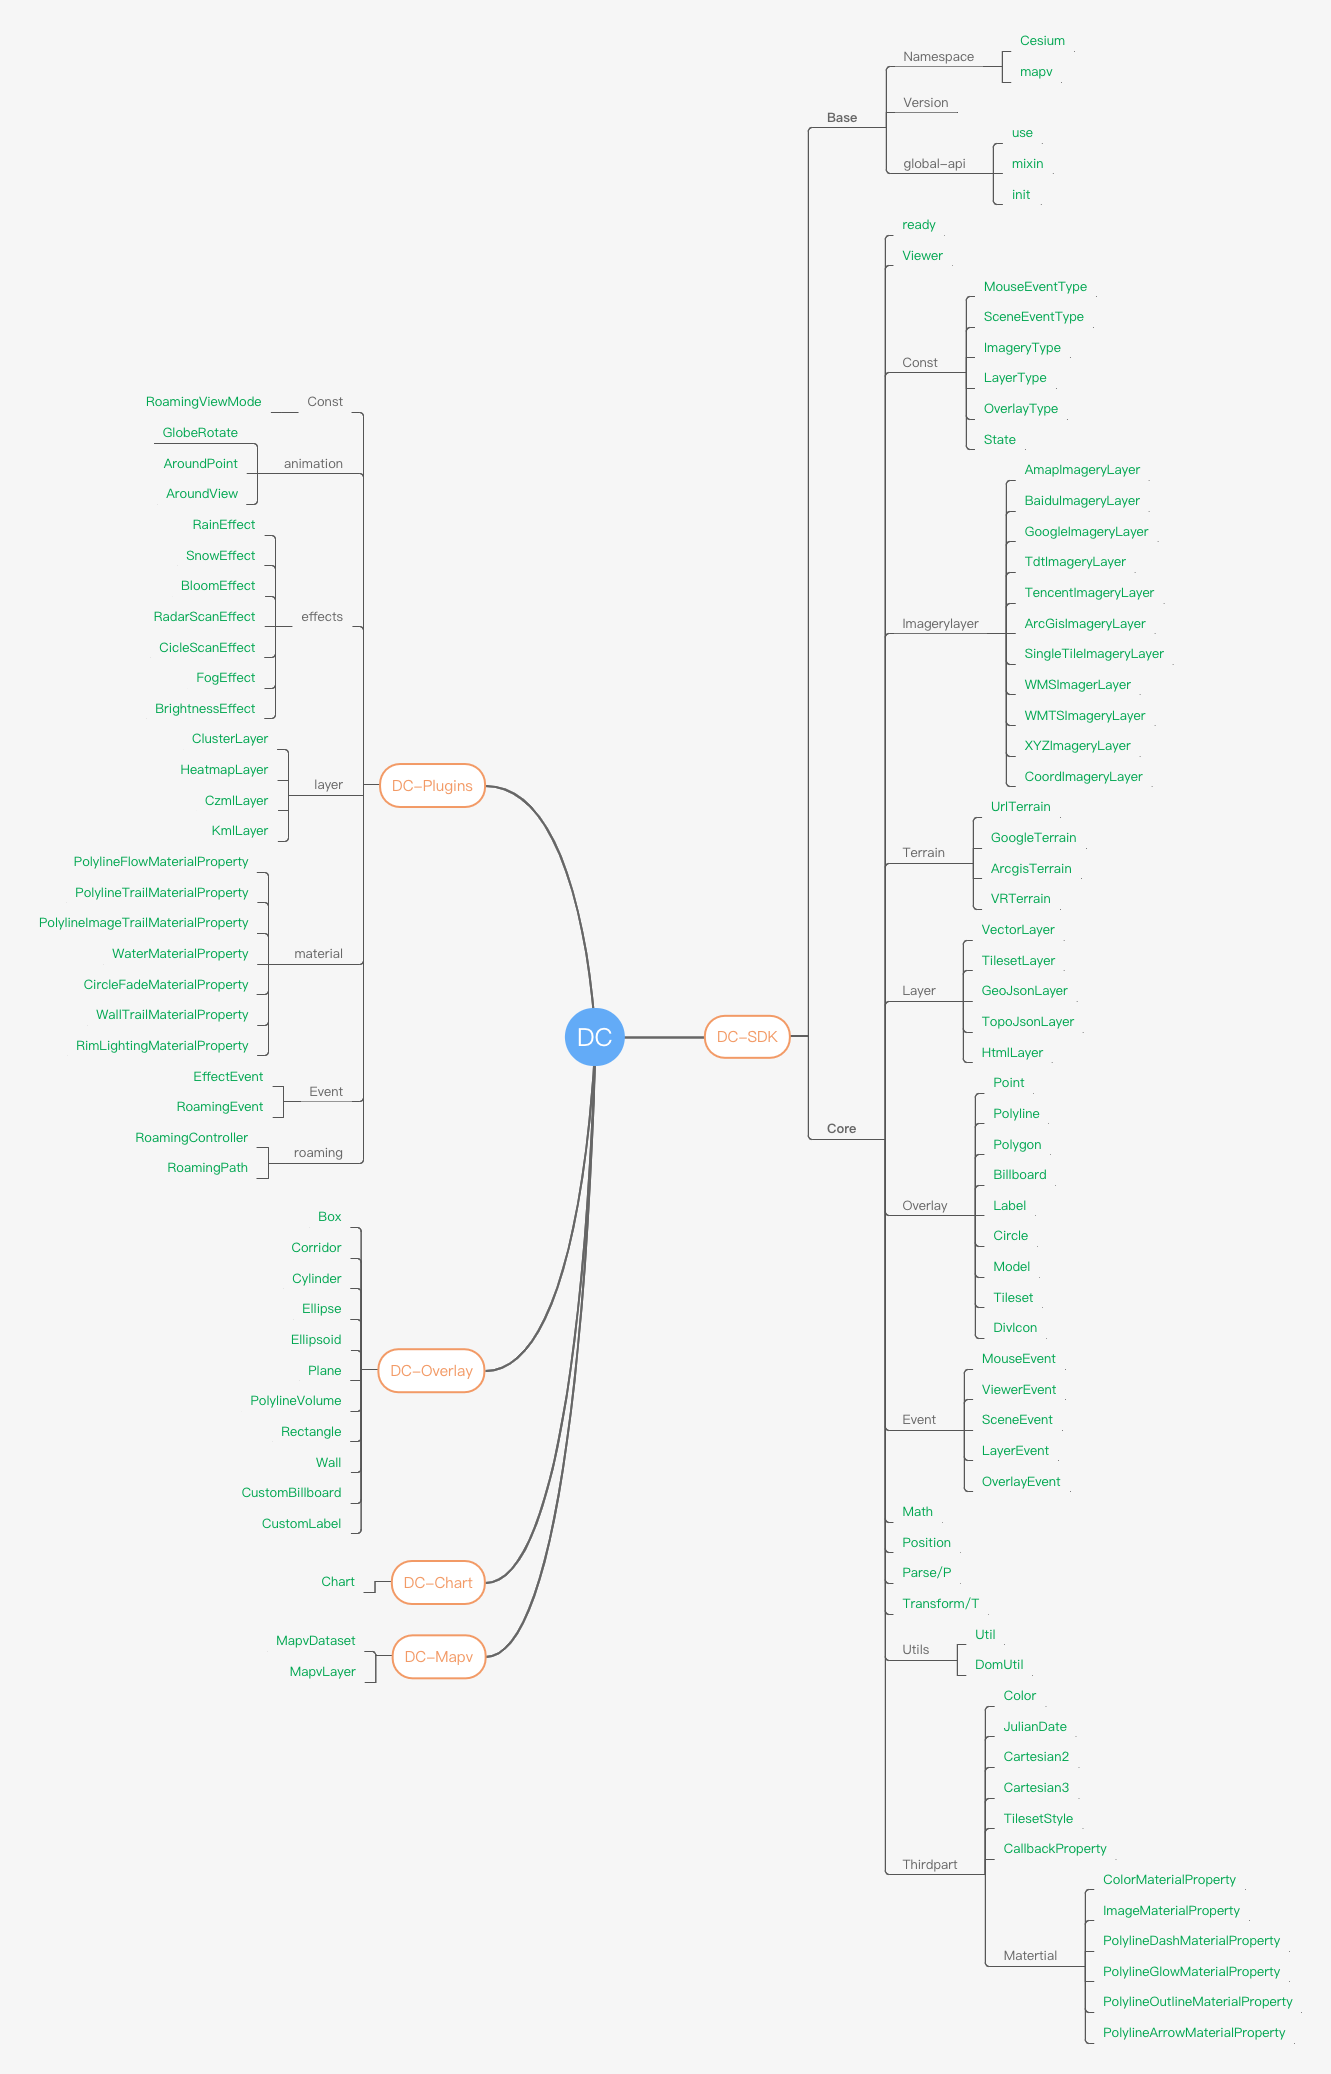
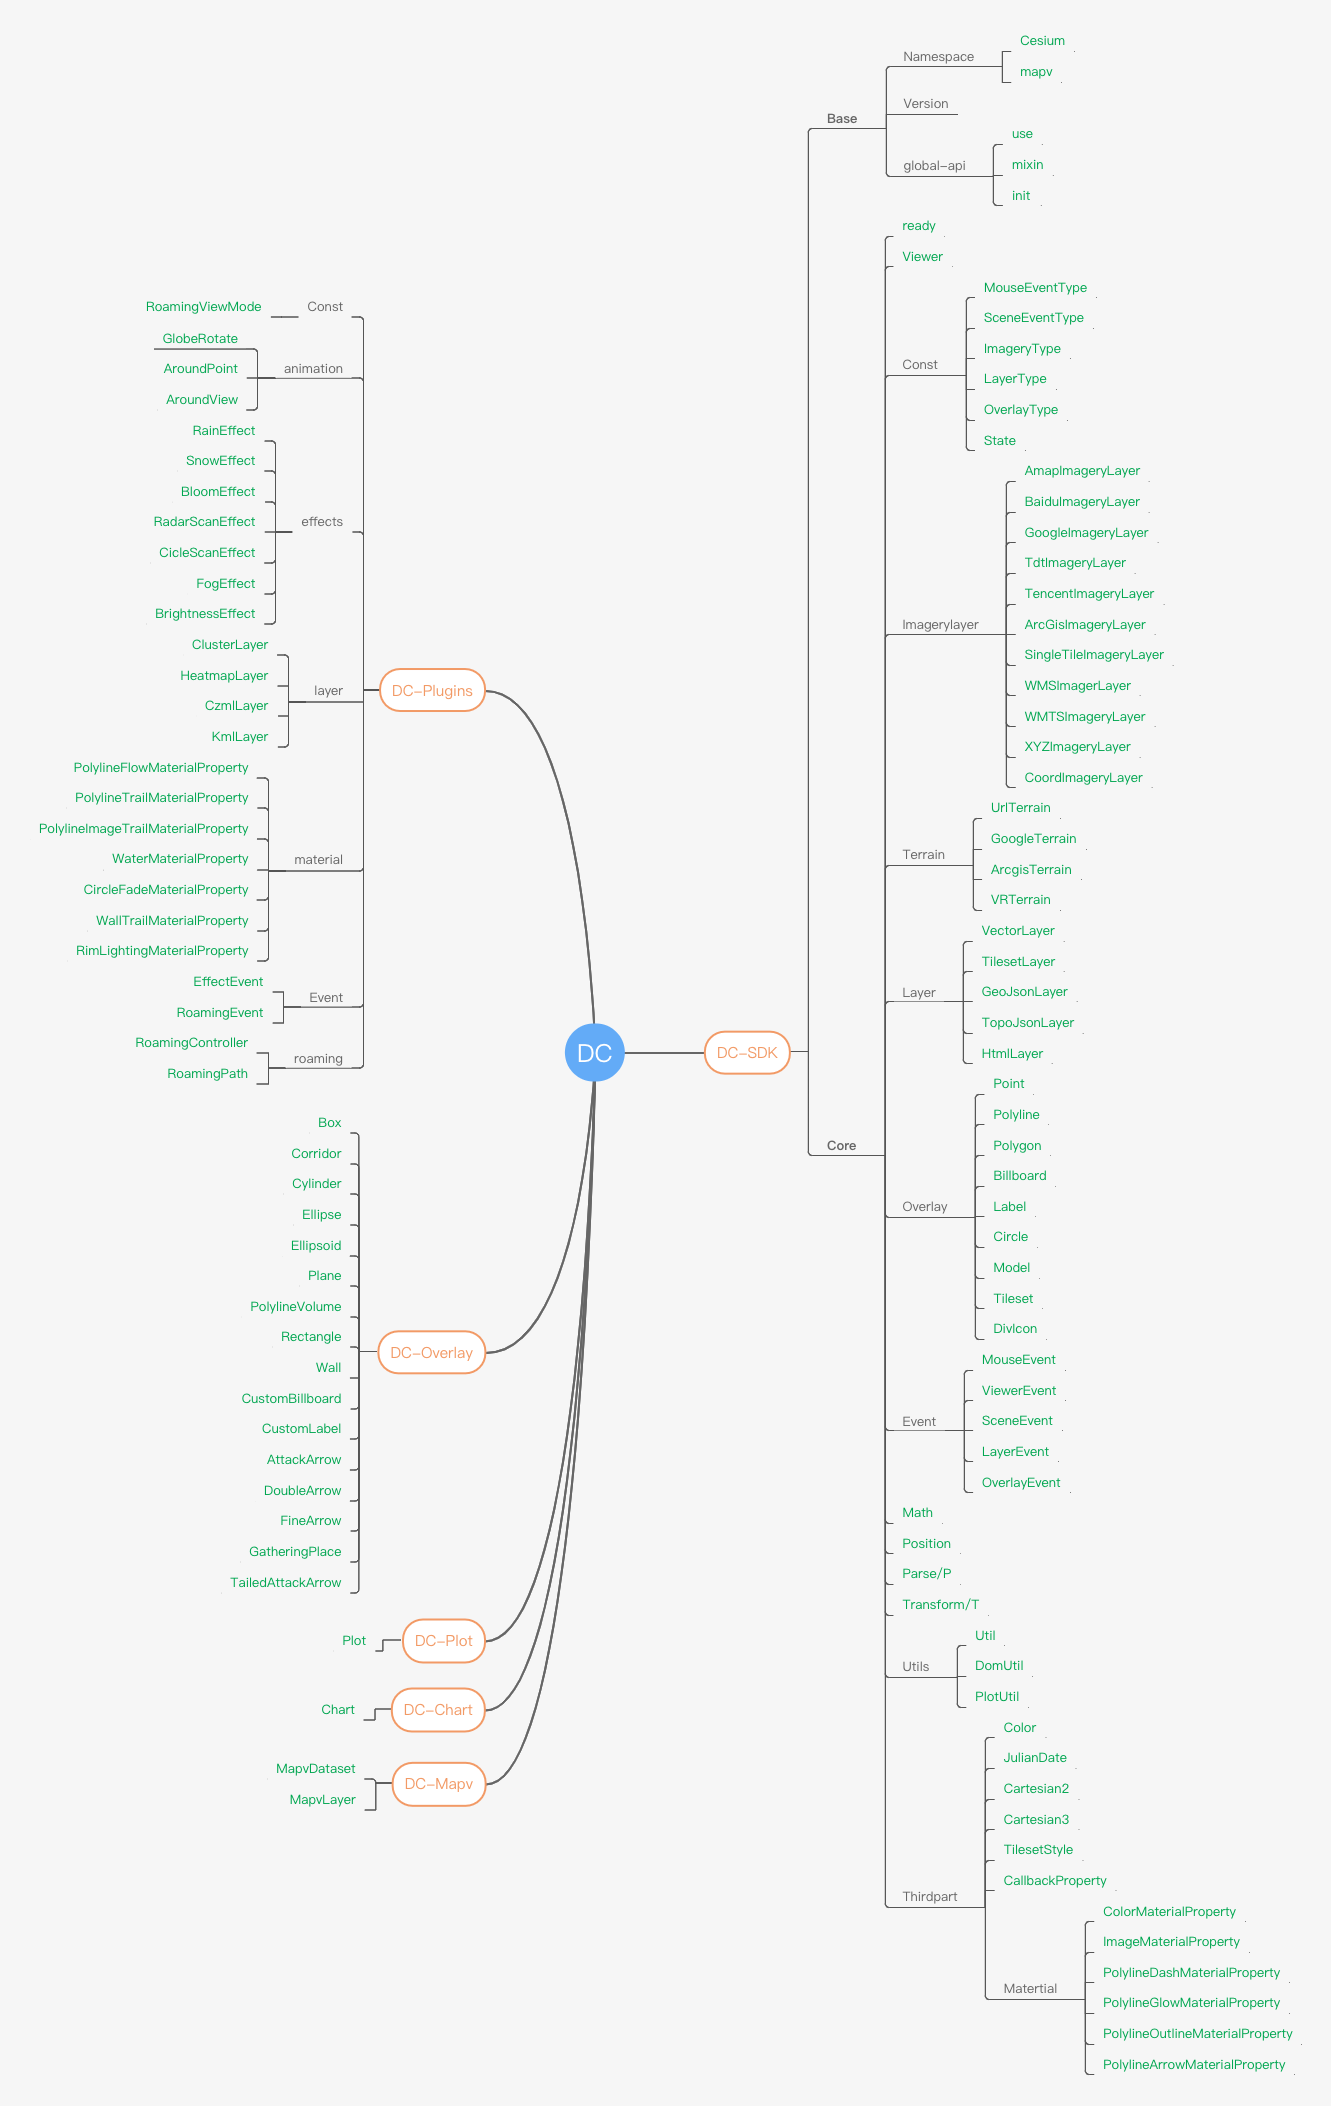
修改示例

diff --git a/pages/overlay/plot-overlay.html b/pages/overlay/plot-overlay.html
@@ -1,0 +1,46 @@
+<div id="viewer-container">
+ <div class="plot-box">
+   <ul>
+     <li><button onclick="draw('point')">点</button></li>
+     <li><button onclick="draw('billboard')">图标点</button></li>
+     <li><button onclick="draw('polyline')">线</button></li>
+     <li><button onclick="draw('polygon')">面</button></li>
+     <li><button onclick="draw('circle')">圆</button></li>
+     <li><button onclick="draw('rectangle')">矩形</button></li>
+     <li><button onclick="draw('attack_arrow')">进攻箭头</button></li>
+     <li><button onclick="draw('double_arrow')">双箭头</button></li>
+     <li><button onclick="draw('fine_arrow')">直箭头</button></li>
+     <li><button onclick="draw('tailed_attack_arrow')">燕尾箭头</button></li>
+     <li><button onclick="draw('gathering_place')">聚集地</button></li>
+   </ul>
+ </div>
+</div>
+<script>
+  let viewer = undefined
+  let plot = undefined
+  let layer = undefined
+
+  function initViewer() {
+    viewer = new DC.Viewer('viewer-container')
+    let baselayer = DC.ImageryLayerFactory.createGoogleImageryLayer({
+      style:'img'
+    })
+    viewer.addBaseLayer(baselayer)
+    layer = new DC.VectorLayer('layer')
+    viewer.addLayer(layer)
+    plot= new DC.Plot(viewer)
+  }
+
+  function draw(type){
+    plot && plot.draw(type,overlay => {
+      layer.addOverlay(overlay)
+      plot.edit(overlay)
+    })
+  }
+
+
+
+
+
+  DC.ready(initViewer)
+</script>

diff --git a/pages/temp.html b/pages/temp.html
@@ -11,6 +11,7 @@
     <script src="libs/dc-mapv/dc.mapv.min.js"></script>
     <script src="libs/dc-plugins/dc.plugins.min.js"></script>
     <script src="libs/dc-overlay/dc.overlay.min.js"></script>
+    <script src="libs/dc-plot/dc.plot.min.js"></script>
     <link href="libs/dc-sdk/dc.core.min.css" rel="stylesheet" />
 
     <style>
@@ -41,12 +42,34 @@
         border-style: solid;
         border-color: rgba(39, 39, 39, 0.6) transparent transparent transparent;
       }
-
       .dc-hawkeye-map {
         left: unset !important;
         bottom: unset !important;
         top: 20px !important;
         right: 20px !important;
+      }
+
+      .plot-box{
+        position: fixed;
+        top:20px;
+        left:80px;
+        z-index: 1000;
+        height: 50px;
+        background: rgba(0,0,0,0.6);
+        padding: 20px 10px 0 10px;
+      }
+
+      .plot-box ul li {
+        display: inline-block;
+      }
+      .plot-box ul li button {
+        width: 60px;
+        height: 30px;
+        background-color: rgba(32,160,255,.2);
+        border: 1px solid #fff;
+        color:#fff;
+        cursor: pointer;
+
       }
     </style>
   </head>
